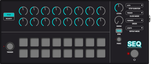
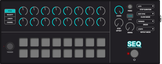
Add disabled ui state & change default parameter values

diff --git a/lv2/dm-Seq.lv2/modgui/javascript.js b/lv2/dm-Seq.lv2/modgui/javascript.js
@@ -1,12 +1,30 @@
 function(event) {
   function handle_port_values(symbol, value) {
     switch (symbol) {
-      case "knob_target":
+      case "clock_mode": {
+        const trigger = event.icon.find("[mod-port-symbol=trigger]").parent();
+        const bpm = event.icon.find("[mod-port-symbol=bpm]").parent();
+        if(value == 0) {
+          // clock_mode == Host Sync
+          trigger.addClass("disabled")
+          bpm.addClass("disabled")
+        } else if(value == 1) {
+          // clock_mode == Free Running
+          trigger.addClass("disabled")
+          bpm.removeClass("disabled")
+        } else if(value == 2) {
+          // clock_mode == Trigger
+          trigger.removeClass("disabled");
+          bpm.addClass("disabled")
+        }
+        break;
+      }
+      case "knob_target": {
         const notes = event.icon.find("#notes");
         const velocities = event.icon.find("#velocities");
         const note_lengths = event.icon.find("#note-lengths");
         const channels = event.icon.find("#channels");
-
+        
         [notes, velocities, note_lengths, channels].forEach(function(element, index) {
           if(index == value) {
             element.removeClass("hide");
@@ -15,12 +33,14 @@ function(event) {
           }
         })
         break;
-      case 'current_step':
+      }
+      case 'current_step': {
         const current_step = Math.round(value)
         event.icon.find("[mod-role=input-control-port][id]").each(function () { $(this).removeClass("highlight"); });
 		    event.icon.find("[mod-role=input-control-port][id="+current_step+"]").each(function () { $(this).addClass("highlight"); });
         break;
-      case "trigger":
+      }
+      case "trigger": {
         const trigger = event.icon.find("[mod-port-symbol=trigger]");
         if(value == 1) {
           trigger.addClass("on");
@@ -28,7 +48,8 @@ function(event) {
           trigger.removeClass("on");
         }
         break;
-      case "panic":
+      }
+      case "panic": {
         const panic = event.icon.find("[mod-port-symbol=panic]");
         if(value == 1) {
           panic.addClass("on");
@@ -36,6 +57,7 @@ function(event) {
           panic.removeClass("on");
         }
         break;
+      }
       default:
         break;
     }

diff --git a/lv2/dm-Seq.lv2/modgui/icon-dm-seq.html b/lv2/dm-Seq.lv2/modgui/icon-dm-seq.html
@@ -520,7 +520,7 @@
         <div class="space-before-grid">
           <div>
             <div
-              class="mod-footswitch on"
+              class="mod-footswitch"
               mod-role="input-control-port"
               mod-port-symbol="trigger"
             >
@@ -673,7 +673,7 @@
         <div class="column">
           <div>
             <div
-              class="mod-footswitch on panic"
+              class="mod-footswitch panic"
               mod-role="input-control-port"
               mod-port-symbol="panic"
             >

diff --git a/lv2/dm-Seq.lv2/modgui/stylesheet-dm-seq.css b/lv2/dm-Seq.lv2/modgui/stylesheet-dm-seq.css
@@ -50,6 +50,10 @@
     display: none;
 }
 
+.mod-pedal{{{cns}}} .disabled {
+    opacity: 0.5;
+}
+
 .mod-pedal{{{cns}}} .knobs, .gates { 
     flex: 1;
     align-items: center;
@@ -69,7 +73,7 @@
     justify-content: space-between;
     align-items: center;
     padding: 16px;
-    gap: 24px;
+    gap: 48px;
 }
 
 .mod-pedal{{{cns}}} .global-controls > .row > .column {

diff --git a/lv2/src/lib.rs b/lv2/src/lib.rs
@@ -198,7 +198,7 @@ impl Plugin for DmSeq {
       }
     }
 
-    if ports.clock_mode.get() == 1. && self.host_speed == 0. {
+    if ports.clock_mode.get() == 0. && self.host_speed == 0. {
       self.handle_transport_stopped(ports);
     } else if ports.panic.get() == 1. {
       let mut midi_out_sequence = match ports.midi_out.init(
@@ -212,7 +212,7 @@ impl Plugin for DmSeq {
       self.event_queue.clear();
     } else {
       match ports.clock_mode.get() {
-        1. => {
+        0. => {
           // clock_mode == Host Sync
           while self.next_step_frame < self.block_start_frame + sample_count as i64 {
             let NextStep {
@@ -251,7 +251,7 @@ impl Plugin for DmSeq {
             }
           }
         }
-        2. => {
+        1. => {
           // clock_mode == Free Running
           while self.free_running_next_step_frame
             < self.free_running_block_start_frame + sample_count as i64
